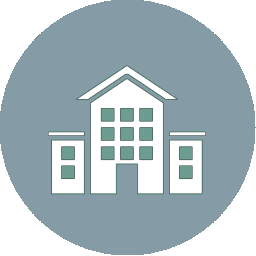
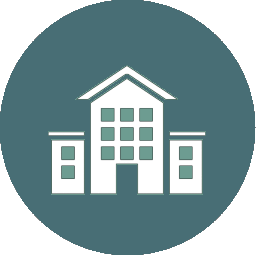
khanstore

diff --git a/projects/03.html b/projects/03.html
@@ -229,6 +229,56 @@
         <div class="fade-in-animation-0">
 
           <div class="panel panel-default">
+            <a href="/projects/kings-hotel">
+              <div class="panel-heading topic-bg" style="background-color:#486E75;">
+                <p class="panel-title">
+                  <img class="img-responsive" src="img/projects/kingshotel/cover.png">
+                </p>
+
+
+              </div>
+            </a>
+            <div class="panel-body">
+              <p class="topic-color">PROJECT</p>
+              <a href="/projects/kings-hotel" class="title topic-title bold-text">Kings Hotel</a>
+              <p class="desc topic-desc">Kings Hotel is customized online software for hotels reservation, booking and room management.</p>
+
+
+
+            </div>
+          </div>
+        </div>
+      </div>
+
+      <div class="col-md-4 col-sm-6 col-xs-12 topic-tile">
+        <div class="fade-in-animation-0">
+
+          <div class="panel panel-default">
+            <a href="/projects/tasks-payroll">
+              <div class="panel-heading topic-bg" style="background-color:#33B076;">
+                <p class="panel-title">
+                  <img class="img-responsive" src="img/projects/taskspayroll/cover.png">
+                </p>
+
+
+              </div>
+            </a>
+            <div class="panel-body">
+              <p class="topic-color">PROJECT</p>
+              <a href="/projects/tasks-payroll" class="title topic-title bold-text">Payroll Management</a>
+              <p class="desc topic-desc">Payroll Management is customized PHP based online tasks and payroll information application.</p>
+
+
+
+            </div>
+          </div>
+        </div>
+      </div>
+
+      <div class="col-md-4 col-sm-6 col-xs-12 topic-tile">
+        <div class="fade-in-animation-0">
+
+          <div class="panel panel-default">
             <a href="/projects/finger-payment">
               <div class="panel-heading topic-bg" style="background-color:#747474;">
                 <p class="panel-title">
@@ -292,56 +342,6 @@
               <p class="topic-color">PROJECT</p>
               <a href="/projects/nf-school" class="title topic-title bold-text">Nf School</a>
               <p class="desc topic-desc">Nf School is customized Java based school information desktop application.</p>
-
-
-
-            </div>
-          </div>
-        </div>
-      </div>
-
-      <div class="col-md-4 col-sm-6 col-xs-12 topic-tile">
-        <div class="fade-in-animation-0">
-
-          <div class="panel panel-default">
-            <a href="/projects/kings-hotel">
-              <div class="panel-heading topic-bg" style="background-color:#859BA6;">
-                <p class="panel-title">
-                  <img class="img-responsive" src="img/projects/kingshotel/cover.png">
-                </p>
-
-
-              </div>
-            </a>
-            <div class="panel-body">
-              <p class="topic-color">PROJECT</p>
-              <a href="/projects/kings-hotel" class="title topic-title bold-text">Kings Hotel</a>
-              <p class="desc topic-desc">Kings Hotel is customized online software for hotels reservation, booking and room management.</p>
-
-
-
-            </div>
-          </div>
-        </div>
-      </div>
-
-      <div class="col-md-4 col-sm-6 col-xs-12 topic-tile">
-        <div class="fade-in-animation-0">
-
-          <div class="panel panel-default">
-            <a href="/projects/tasks-payroll">
-              <div class="panel-heading topic-bg" style="background-color:#486E75;">
-                <p class="panel-title">
-                  <img class="img-responsive" src="img/projects/taskspayroll/cover.png">
-                </p>
-
-
-              </div>
-            </a>
-            <div class="panel-body">
-              <p class="topic-color">PROJECT</p>
-              <a href="/projects/tasks-payroll" class="title topic-title bold-text">Payroll Management</a>
-              <p class="desc topic-desc">Payroll Management is customized PHP based online tasks and payroll information application.</p>
 
 
 
